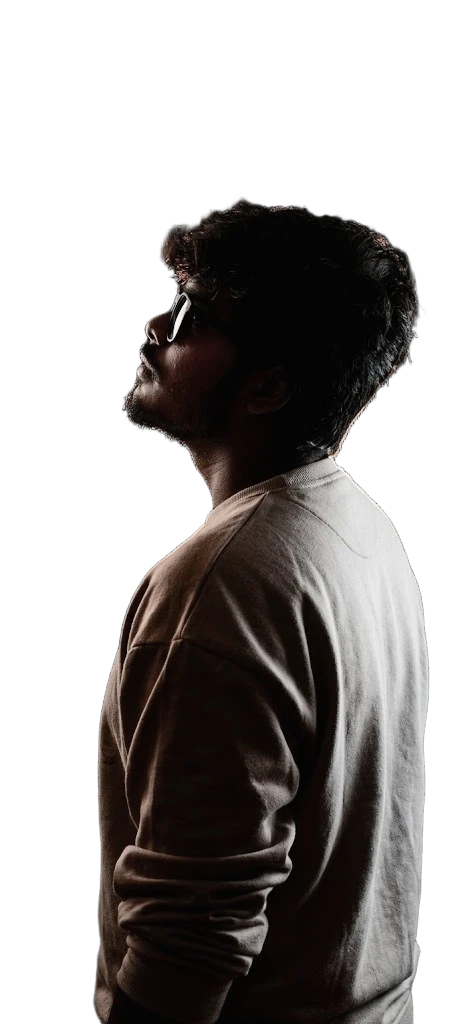
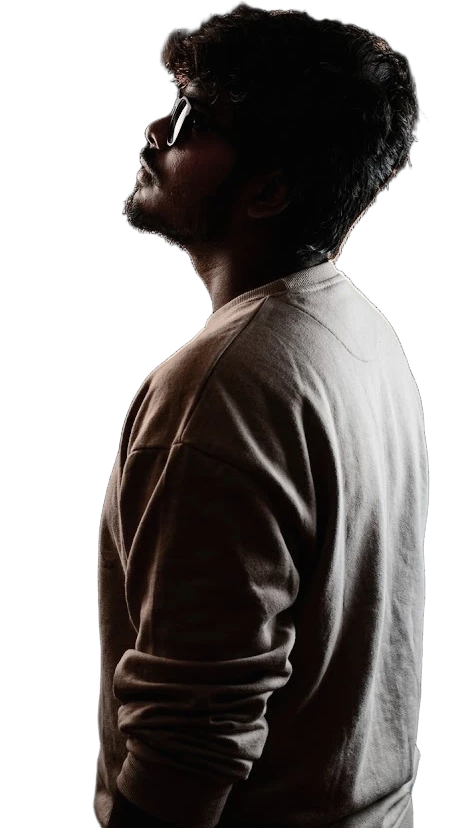
update

diff --git a/bs-portfolio/frontend/src/components/HeroSection.css b/bs-portfolio/frontend/src/components/HeroSection.css
@@ -1,3 +1,12 @@
+@font-face {
+  font-family: "signature";
+  src: url(../fonts/Priestacy.otf);
+}
+
+@font-face {
+  font-family: "modern";
+  src: url(../fonts/modernline.otf);
+}
 .hero-section-new {
   min-height: 100vh;
   position: relative;
@@ -29,9 +38,9 @@
 }
 
 .hero-profile-image {
-  width: 100%;
+  width: auto;
   max-width: 450px;
-  height: auto;
+  height: 50rem;
   object-fit: cover;
   filter: grayscale(20%) brightness(0.9);
   transition: all 0.5s ease;
@@ -51,22 +60,39 @@
 }
 
 .greeting-text {
-  font-size: clamp(3rem, 6vw, 5rem);
+  position: absolute;
+  top: 200px;
+  font-size: clamp(8rem, 6vw, 5rem);
   font-weight: 300;
-  color: rgba(255, 255, 255, 0.5);
+  color: rgba(255, 255, 255, 0.94);
   margin: 0;
   line-height: 1;
   font-family: 'Inter', sans-serif;
   letter-spacing: -0.02em;
+  word-spacing: 1rem;
 }
 
 .name-text {
-  font-size: clamp(2.5rem, 5vw, 4rem);
+  position: absolute;
+  top: 260px;
+  font-size: clamp(5.5rem, 5vw, 4rem);
   font-weight: 400;
-  color: rgba(255, 255, 255, 0.7);
+  color: rgb(9, 234, 227);
   margin: 0;
   line-height: 1.2;
-  font-family: 'Inter', sans-serif;
+  font-family: 'signature';
+}
+.name-text-2 {
+  word-spacing: 10px;
+  position: absolute;
+  top: 200px;
+  left: 400px;
+  font-size: clamp(10.5rem, 5vw, 4rem);
+  font-weight: 400;
+  color: rgba(255, 255, 255, 0.281);
+  margin: 0;
+  line-height: 1.2;
+  font-family: 'modern';
 }
 
 .right-text-section {

diff --git a/bs-portfolio/frontend/src/components/ContactSection.jsx b/bs-portfolio/frontend/src/components/ContactSection.jsx
@@ -1,6 +1,6 @@
 import React from 'react';
 import { motion } from 'framer-motion';
-import { Mail, Github, Linkedin, Twitter } from 'lucide-react';
+import { Mail, Github, Linkedin, Twitter, Instagram, InstagramIcon } from 'lucide-react';
 import './ContactSection.css';
 
 const ContactSection = () => {
@@ -8,22 +8,22 @@ const ContactSection = () => {
     {
       icon: <Github size={24} />,
       label: 'GitHub',
-      url: 'https://github.com',
+      url: 'https://github.com/bsbalaji7',
     },
     {
       icon: <Linkedin size={24} />,
       label: 'LinkedIn',
-      url: 'https://linkedin.com',
+      url: 'https://www.linkedin.com/in/bala-subramanian-709a37274/',
     },
     {
-      icon: <Twitter size={24} />,
-      label: 'Twitter',
-      url: 'https://twitter.com',
+      icon: <Instagram size={24} />,
+      label: 'Instagram',
+      url: 'https://www.instagram.com/itz_viss.__?igsh=NnkxbjNyZWZqdjgx',
     },
     {
       icon: <Mail size={24} />,
       label: 'Email',
-      url: 'mailto:bs@example.com',
+      url: 'mailto:bsbalaji101005@gmail.com?subject=Portfolio Contact&body=Hi BS, I want to connect with you.',
     },
   ];
 

diff --git a/bs-portfolio/frontend/src/components/HeroSection.jsx b/bs-portfolio/frontend/src/components/HeroSection.jsx
@@ -29,7 +29,8 @@ const HeroSection = () => {
           transition={{ duration: 1, delay: 0.6 }}
         >
           <h1 className="greeting-text">Hi There</h1>
-          <h2 className="name-text">I'm BS</h2>
+          <h2 className="name-text">I'm Balasubramanian</h2>
+          <h2 className="name-text-2">B  S</h2>
         </motion.div>
 
         {/* Right Text */}
@@ -42,7 +43,7 @@ const HeroSection = () => {
           <h3 className="role-text">Full Stack</h3>
           <h3 className="role-text">Developer</h3>
           <div className="project-counter">
-            <span className="counter-number">15+</span>
+            <span className="counter-number">5+</span>
             <span className="counter-label">Projects</span>
           </div>
         </motion.div>

diff --git a/bs-portfolio/frontend/src/components/Header.css b/bs-portfolio/frontend/src/components/Header.css
@@ -3,7 +3,7 @@
   top: 0;
   left: 0;
   width: 100%;
-  background: rgba(45, 45, 48, 0.95);
+  background: rgba(45, 45, 48, 0.701);
   backdrop-filter: blur(10px);
   z-index: 1000;
   padding: 1.5rem 3rem;
